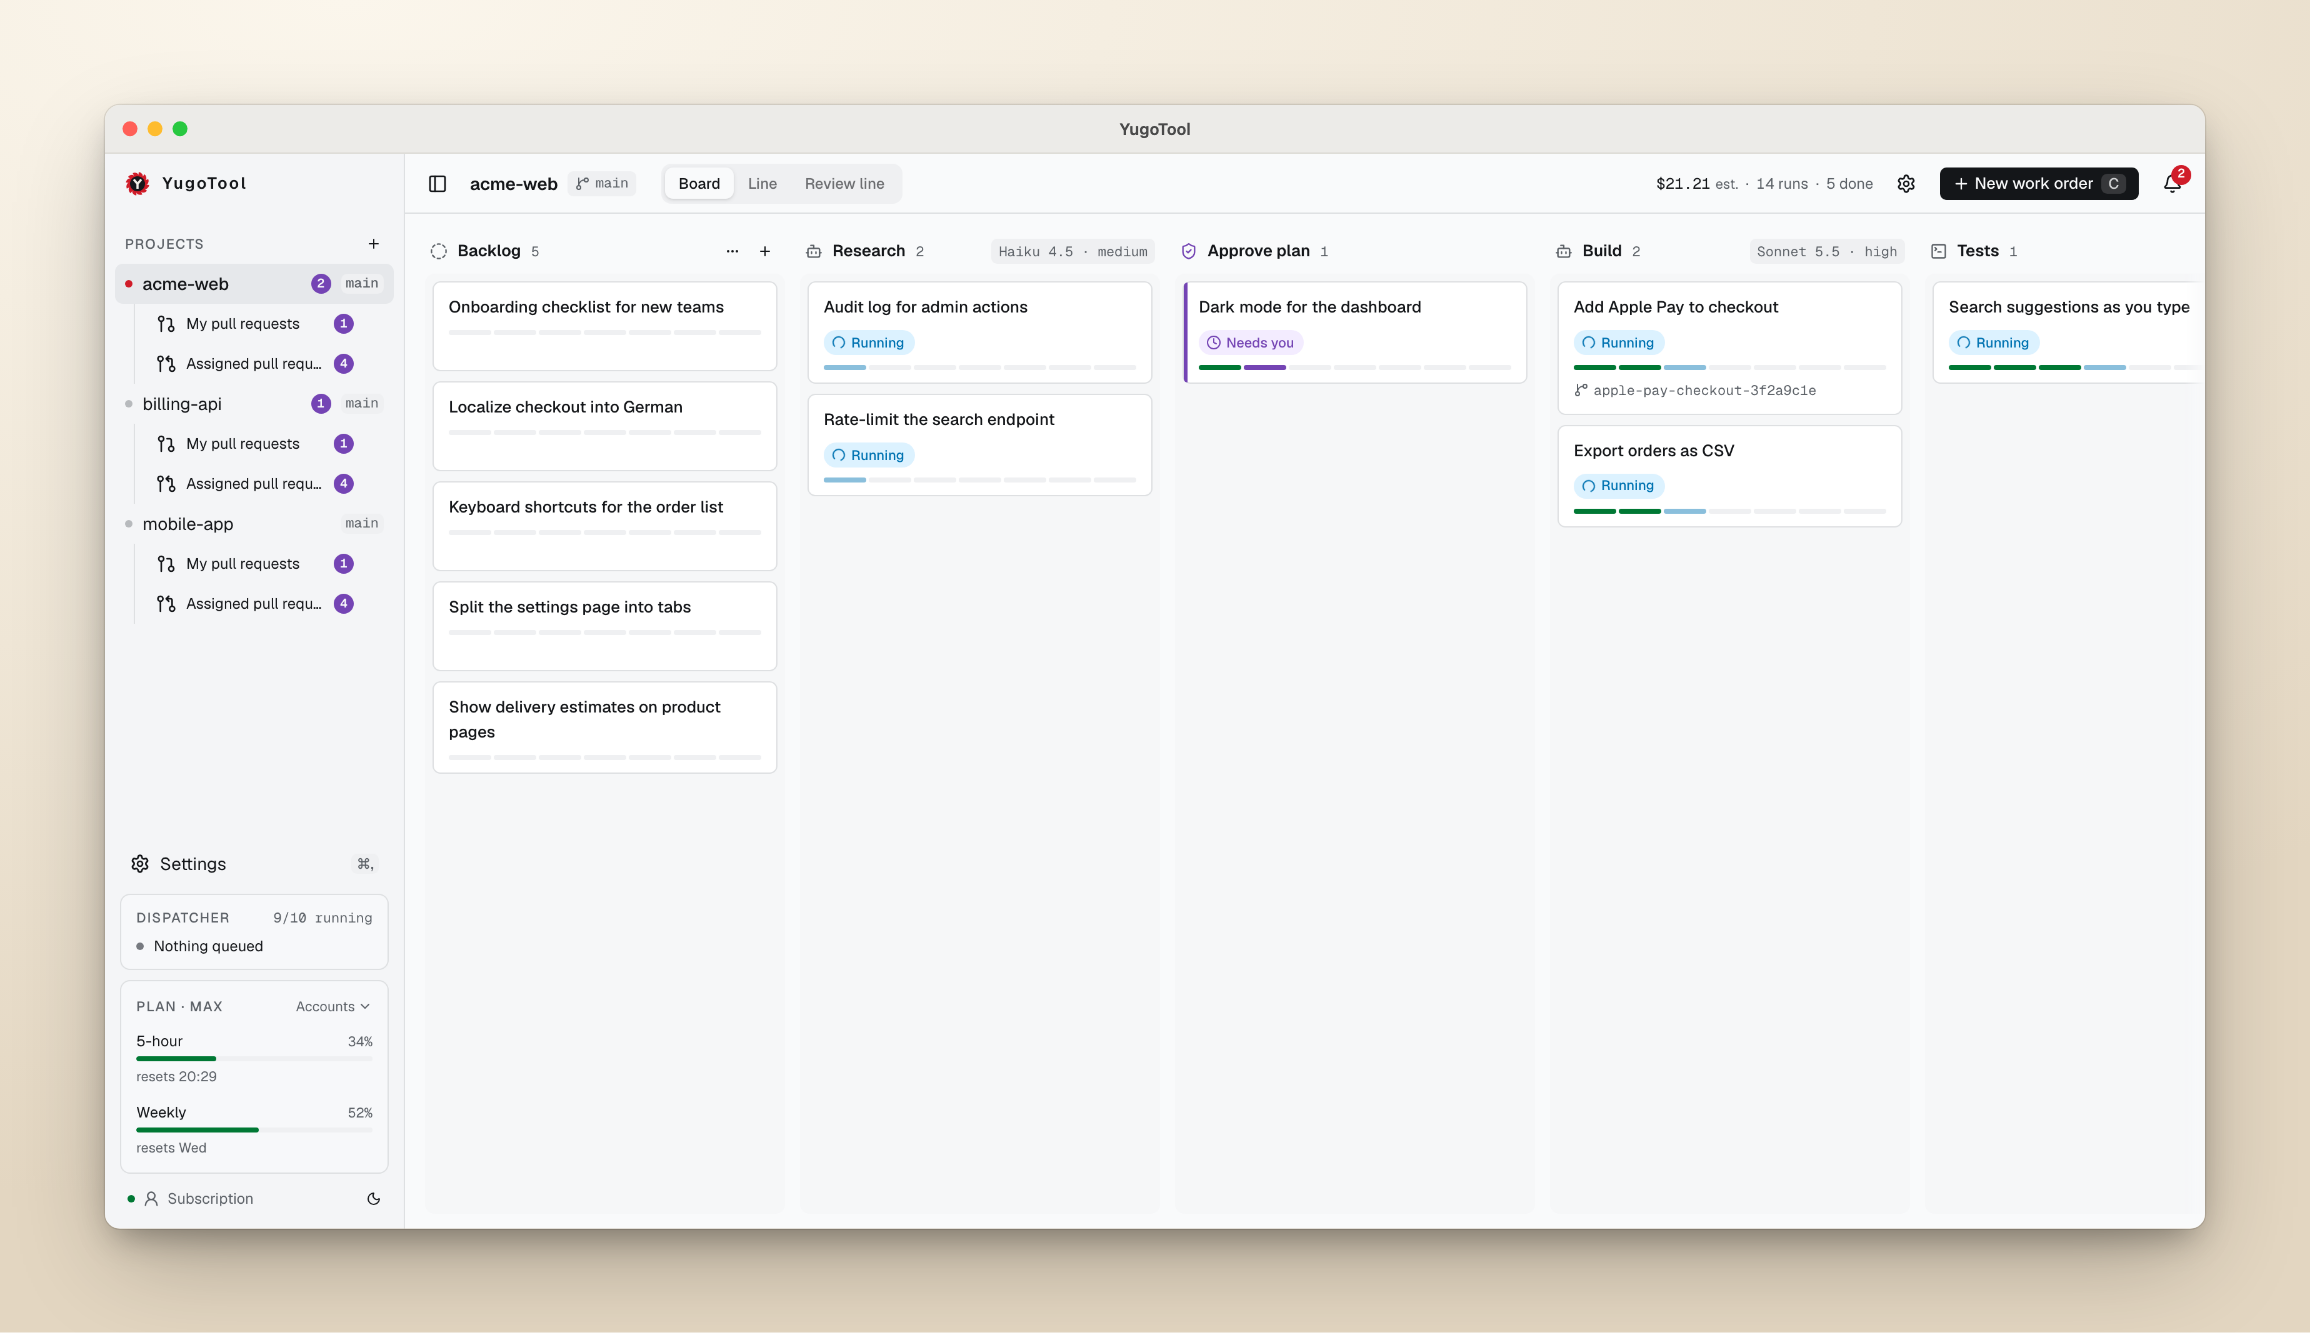
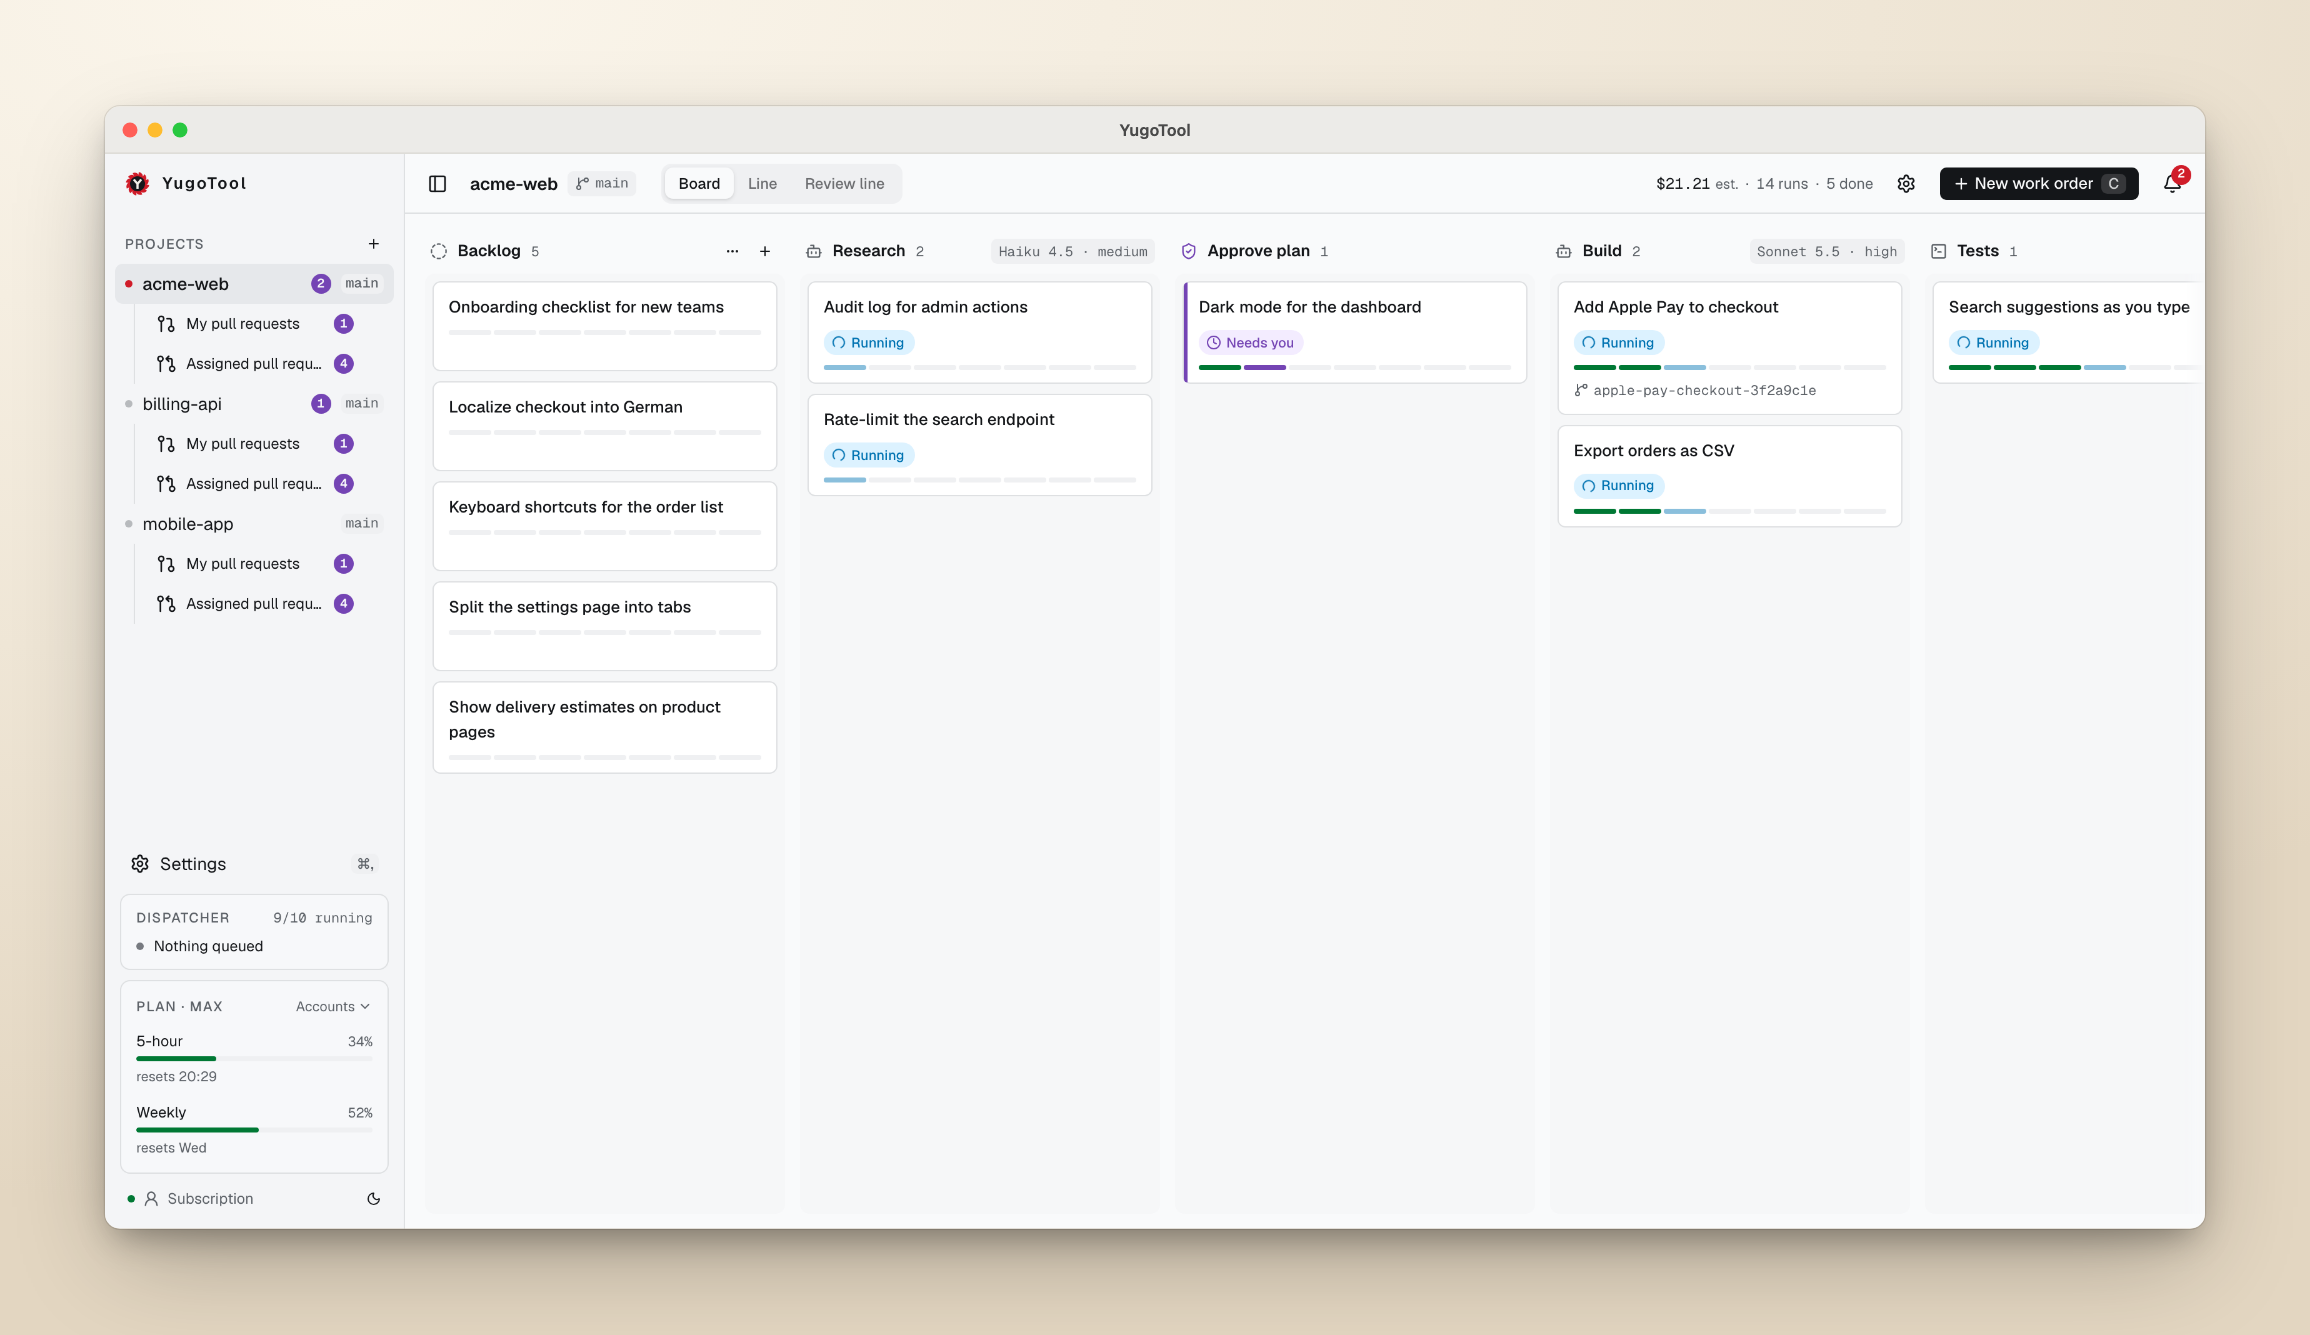
fix: one data home for every service, newer Claude models
API and worker kept artifacts, worktrees, knowledge, runtimes and account
logins under ~/.yugotool even when YUGOTOOL_HOME pointed elsewhere, so a
second instance shared them. They now follow YUGOTOOL_HOME, which the
supervisor passes. Models: Fable 5.1 and Haiku 5.5 join the list; new lines
and route discovery use Haiku 5.5. Screenshots lose a stray bottom line.

diff --git a/apps/worker/src/runner/node-versions.ts b/apps/worker/src/runner/node-versions.ts
@@ -4,13 +4,13 @@ import { execFile } from "node:child_process";
 import { createHash } from "node:crypto";
 import { existsSync } from "node:fs";
 import { mkdir, mkdtemp, readdir, readFile, rename, rm, stat, writeFile } from "node:fs/promises";
-import os from "node:os";
 import path from "node:path";
 import { promisify } from "node:util";
+import { yugotoolHome } from "./home";
 
 const exec = promisify(execFile);
 
-const NODE_ROOT = path.join(os.homedir(), ".yugotool", "node");
+const NODE_ROOT = path.join(yugotoolHome(), "node");
 const DIST = "https://nodejs.org/dist";
 /** The release index changes a few times a month. */
 const INDEX_MAX_AGE_MS = 12 * 60 * 60 * 1000;
@@ -189,7 +189,7 @@ export function withBinFirst(env: NodeJS.ProcessEnv, binDir: string): NodeJS.Pro
  * `env` with the Node `dir` pins first on PATH; unchanged when it pins none or
  * the version can't be had. Best effort: a run never fails over this.
  */
-const PNPM_ROOT = path.join(os.homedir(), ".yugotool", "tools");
+const PNPM_ROOT = path.join(yugotoolHome(), "tools");
 
 /** The exact pnpm a checkout pins in package.json's packageManager ("pnpm@12.4.1+sha512…"). */
 export async function pinnedPnpm(dir: string): Promise<string | null> {

diff --git a/apps/worker/src/runner/work-hub.ts b/apps/worker/src/runner/work-hub.ts
@@ -4,18 +4,18 @@ import { execFile } from "node:child_process";
 import { createHash } from "node:crypto";
 import { existsSync, readdirSync, statSync } from "node:fs";
 import { lstat, mkdir, readFile, readdir, symlink, writeFile } from "node:fs/promises";
-import os from "node:os";
 import path from "node:path";
 import { promisify } from "node:util";
 import { hubCandidateOf } from "@yugotool/contracts";
 import { bundledHubPlugins, hubUserPlugins, manifestName, pluginName } from "@yugotool/skills";
+import { yugotoolHome } from "./home";
 
 export { bundledHubPlugins, pluginName };
 
 const exec = promisify(execFile);
 
 /** Where generated hub plugins live (one per hub, its skills symlinked in). */
-const HUB_PLUGINS_ROOT = path.join(os.homedir(), ".yugotool", "hub-plugins");
+const HUB_PLUGINS_ROOT = path.join(yugotoolHome(), "hub-plugins");
 
 /** A hub root: instructions for agents at the top and a `repos/` folder. */
 export function isHubRoot(dir: string): boolean {

diff --git a/packages/contracts/src/index.ts b/packages/contracts/src/index.ts
@@ -15,9 +15,12 @@ const isoDate = z.iso.datetime({ offset: true });
 
 // ── Models ──────────────────────────────────────────────────────────────────
 
+/** Newest first; Haiku 4.5 stays for lines saved with it. Any other id still runs, shown raw. */
 export const MODELS = [
+  { id: "claude-fable-5-1", label: "Fable 5.1" },
   { id: "claude-opus-5-5", label: "Opus 5.5" },
   { id: "claude-sonnet-5-5", label: "Sonnet 5.5" },
+  { id: "claude-haiku-5-5", label: "Haiku 5.5" },
   { id: "claude-haiku-4-5-20251001", label: "Haiku 4.5" },
 ] as const;
 
@@ -2222,7 +2225,7 @@ export const DEFAULT_STATIONS: Station[] = [
     kind: "agent",
     name: "Research",
     role: "codebase-researcher",
-    model: "claude-haiku-4-5-20251001",
+    model: "claude-haiku-5-5",
     effort: "medium",
     allowedTools: READ_ONLY_TOOLS,
     canEdit: false,

diff --git a/apps/worker/src/runner/local-runner.ts b/apps/worker/src/runner/local-runner.ts
@@ -1,18 +1,18 @@
 import { execFile, spawn } from "node:child_process";
 import { existsSync } from "node:fs";
 import { access, constants, cp, mkdir, rename, rm, writeFile } from "node:fs/promises";
-import os from "node:os";
 import path from "node:path";
 import { promisify } from "node:util";
 
 import { SIGNATURE } from "./pr-body";
 import { pinnedNodeEnv } from "./node-versions";
 import { hubWorktreePath } from "./work-hub";
+import { yugotoolHome } from "./home";
 
 const exec = promisify(execFile);
 
 /** Where worktrees live: outside the repo so the user's checkout is never touched. */
-const WORKTREES_ROOT = path.join(os.homedir(), ".yugotool", "worktrees");
+const WORKTREES_ROOT = path.join(yugotoolHome(), "worktrees");
 
 export interface Workspace {
   path: string;

diff --git a/apps/api/src/core/artifacts/artifacts.ts b/apps/api/src/core/artifacts/artifacts.ts
@@ -1,12 +1,12 @@
 import { realpath } from "node:fs/promises";
-import os from "node:os";
 import path from "node:path";
+import { yugotoolHome } from "../config/home";
 
 /** Written by the worker (screenshots, preview tests); the API only reads. */
-export const ARTIFACTS_ROOT = path.join(os.homedir(), ".yugotool", "artifacts");
+export const ARTIFACTS_ROOT = path.join(yugotoolHome(), "artifacts");
 
 /** Run worktrees, created by the worker; removed with their project. */
-export const WORKTREES_ROOT = path.join(os.homedir(), ".yugotool", "worktrees");
+export const WORKTREES_ROOT = path.join(yugotoolHome(), "worktrees");
 
 export const runArtifactsDir = (runId: string): string => path.join(ARTIFACTS_ROOT, runId);
 export const previewTestDir = (projectId: string): string =>

diff --git a/apps/api/src/modules/knowledge/knowledge.service.ts b/apps/api/src/modules/knowledge/knowledge.service.ts
@@ -1,5 +1,4 @@
 import { rm } from "node:fs/promises";
-import os from "node:os";
 import path from "node:path";
 import { Inject, Injectable, Logger } from "@nestjs/common";
 import {
@@ -22,9 +21,10 @@ import {
 } from "./knowledge.errors";
 import { locationProblem } from "./knowledge.location";
 import { KnowledgeRepository } from "./knowledge.repository";
+import { yugotoolHome } from "../../core/config/home";
 
 /** Where the worker keeps snapshots (runner/knowledge.ts). */
-const KNOWLEDGE_ROOT = path.join(os.homedir(), ".yugotool", "knowledge");
+const KNOWLEDGE_ROOT = path.join(yugotoolHome(), "knowledge");
 
 /** Settings → Knowledge (the library) and each project's choice from it. Spec 0007. */
 @Injectable()

diff --git a/apps/api/src/modules/claude-accounts/claude-accounts.service.ts b/apps/api/src/modules/claude-accounts/claude-accounts.service.ts
@@ -26,6 +26,7 @@ import {
 } from "./claude-accounts.errors";
 import { type ClaudeAccountRow, ClaudeAccountsRepository } from "./claude-accounts.repository";
 import { type ClaudeAuthStatus, ClaudeCli } from "./claude-cli";
+import { yugotoolHome } from "../../core/config/home";
 
 /**
  * Who a project's sessions run as, as far as plan limits go (spec 0016). The
@@ -283,7 +284,7 @@ export class ClaudeAccountsService {
   }
 
   private accountsRoot(): string {
-    return path.join(this.cli.home(), ".yugotool", "accounts");
+    return path.join(yugotoolHome(this.cli.home()), "accounts");
   }
 
   private async one(id: string): Promise<ClaudeAccount> {

diff --git a/apps/worker/src/runner/knowledge.ts b/apps/worker/src/runner/knowledge.ts
@@ -5,11 +5,12 @@ import os from "node:os";
 import path from "node:path";
 import { promisify } from "node:util";
 import type { KnowledgeMount, KnowledgeSourceKind } from "@yugotool/contracts";
+import { yugotoolHome } from "./home";
 
 const exec = promisify(execFile);
 
 /** Snapshots live outside every repo; agents get read access to one per source. */
-export const KNOWLEDGE_ROOT = path.join(os.homedir(), ".yugotool", "knowledge");
+export const KNOWLEDGE_ROOT = path.join(yugotoolHome(), "knowledge");
 
 /** Snapshots kept per source: the current one and a couple that runs may still read. */
 const KEEP_SNAPSHOTS = 3;

diff --git a/apps/api/src/core/config/home.ts b/apps/api/src/core/config/home.ts
@@ -1,0 +1,16 @@
+import os from "node:os";
+import path from "node:path";
+
+/**
+ * YugoTool's data folder: `YUGOTOOL_HOME` (the supervisor always passes it),
+ * else `~/.yugotool`. Artifacts, worktrees, knowledge, runtimes and account
+ * logins live under it, so a second instance with its own home shares nothing.
+ */
+export function yugotoolHome(
+  userHome: string = os.homedir(),
+  env: NodeJS.ProcessEnv = process.env,
+): string {
+  return env["YUGOTOOL_HOME"]
+    ? path.resolve(env["YUGOTOOL_HOME"])
+    : path.join(userHome, ".yugotool");
+}

diff --git a/apps/worker/src/runner/home.ts b/apps/worker/src/runner/home.ts
@@ -1,0 +1,16 @@
+import os from "node:os";
+import path from "node:path";
+
+/**
+ * YugoTool's data folder: `YUGOTOOL_HOME` (the supervisor always passes it),
+ * else `~/.yugotool`. Artifacts, worktrees, knowledge, runtimes and account
+ * logins live under it, so a second instance with its own home shares nothing.
+ */
+export function yugotoolHome(
+  userHome: string = os.homedir(),
+  env: NodeJS.ProcessEnv = process.env,
+): string {
+  return env["YUGOTOOL_HOME"]
+    ? path.resolve(env["YUGOTOOL_HOME"])
+    : path.join(userHome, ".yugotool");
+}

diff --git a/apps/worker/src/runner/artifacts.ts b/apps/worker/src/runner/artifacts.ts
@@ -1,9 +1,9 @@
 import { existsSync } from "node:fs";
-import os from "node:os";
 import path from "node:path";
+import { yugotoolHome } from "./home";
 
 /** Screenshots and other run outputs; never inside a worktree, never committed. */
-export const ARTIFACTS_ROOT = path.join(os.homedir(), ".yugotool", "artifacts");
+export const ARTIFACTS_ROOT = path.join(yugotoolHome(), "artifacts");
 
 export function runArtifactsDir(runId: string): string {
   return path.join(ARTIFACTS_ROOT, runId);

diff --git a/apps/supervisor/src/services.ts b/apps/supervisor/src/services.ts
@@ -454,6 +454,8 @@ function nodeEnv(config: SupervisorConfig): NodeJS.ProcessEnv {
   const claude = claudeBin(config);
   return {
     ...inherited,
+    // API and worker keep their files (worktrees, artifacts, logins…) in the same home.
+    YUGOTOOL_HOME: config.home,
     DATABASE_URL: databaseUrl(config),
     TEMPORAL_ADDRESS: `127.0.0.1:${config.ports.temporal}`,
     DESKTOP_NOTICES: config.desktopNotices,
